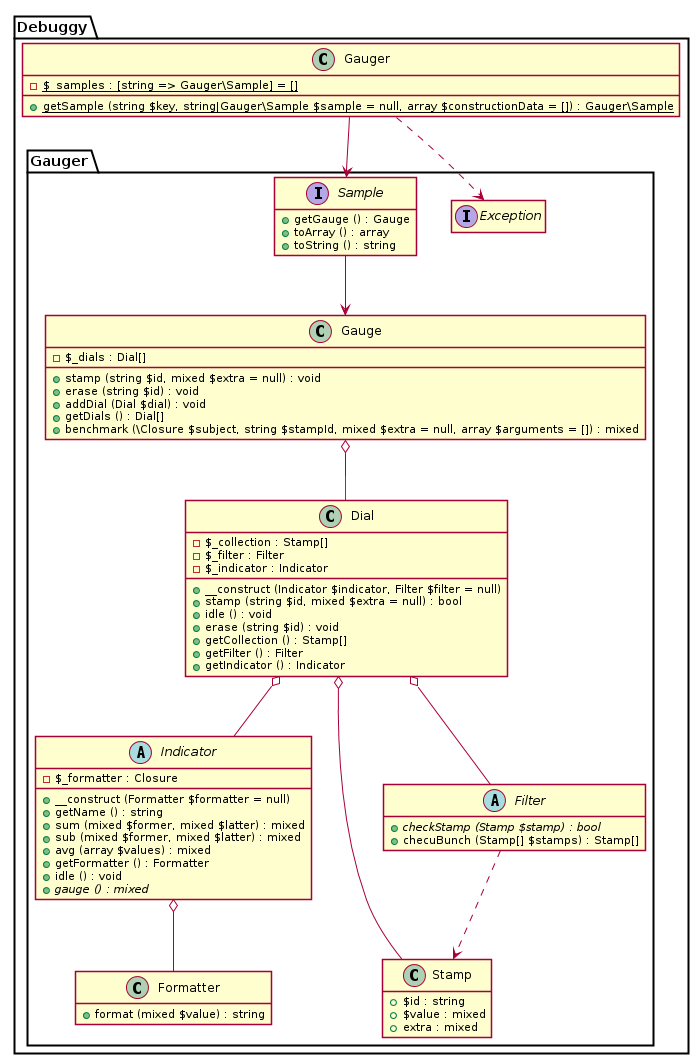
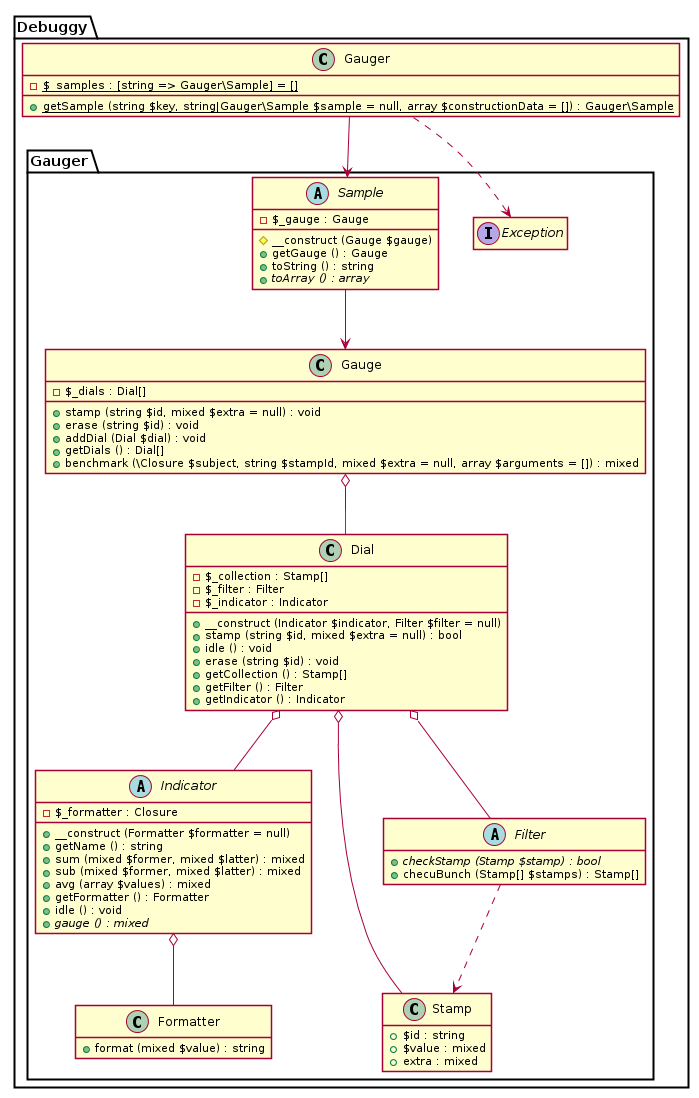
Fix UML (samples); Add Presenter::Txt afterline PHP_EOL

diff --git a/tests/Presenters.php b/tests/Presenters.php
@@ -33,7 +33,7 @@ class Presenters extends PHPUnit_Framework_TestCase {
 				array ('ttl' => array (array ('mark', 'value'))),
 				'********* ttl **********' . PHP_EOL .
 				'* mark ......... value *' . PHP_EOL .
-				'************************' . PHP_EOL
+				'************************' . PHP_EOL . PHP_EOL
 			),
 
 
@@ -44,7 +44,7 @@ class Presenters extends PHPUnit_Framework_TestCase {
 				'* plain text much      *' . PHP_EOL .
 				'* longer than twenty   *' . PHP_EOL .
 				'* four symbols         *' . PHP_EOL .
-				'************************' . PHP_EOL
+				'************************' . PHP_EOL . PHP_EOL
 			),
 
 
@@ -60,7 +60,7 @@ class Presenters extends PHPUnit_Framework_TestCase {
 				array ('ttl' => array (array ('mark', array ('sub' => 'val')))),
 				'********* ttl **********' . PHP_EOL .
 				'* mark ...... sub: val *' . PHP_EOL .
-				'************************' . PHP_EOL
+				'************************' . PHP_EOL . PHP_EOL
 			),
 
 
@@ -73,7 +73,7 @@ class Presenters extends PHPUnit_Framework_TestCase {
 				'*                sub2:         *' . PHP_EOL .
 				'*                 key: value   *' . PHP_EOL .
 				'*                 key2: value2 *' . PHP_EOL .
-				'********************************' . PHP_EOL
+				'********************************' . PHP_EOL . PHP_EOL
 			),
 
 
@@ -92,7 +92,7 @@ class Presenters extends PHPUnit_Framework_TestCase {
 				'******* Long *******' . PHP_EOL .
 				'****** title *******' . PHP_EOL .
 				'* key ........ val *' . PHP_EOL .
-				'********************' . PHP_EOL
+				'********************' . PHP_EOL . PHP_EOL
 			),
 
 
@@ -102,7 +102,7 @@ class Presenters extends PHPUnit_Framework_TestCase {
 				'******* Long *******' . PHP_EOL .
 				'****** title *******' . PHP_EOL .
 				'* key ........ val *' . PHP_EOL .
-				'********************' . PHP_EOL
+				'********************' . PHP_EOL . PHP_EOL
 			),
 
 
@@ -114,7 +114,7 @@ class Presenters extends PHPUnit_Framework_TestCase {
 				'*  long                        *' . PHP_EOL .
 				'*  key                         *' . PHP_EOL .
 				'*  string .............. value *' . PHP_EOL .
-				'********************************' . PHP_EOL
+				'********************************' . PHP_EOL . PHP_EOL
 			)
 
 		);

diff --git a/src/Debuggy/Gauger/Presenter/Txt.php b/src/Debuggy/Gauger/Presenter/Txt.php
@@ -62,7 +62,7 @@ class Txt implements Presenter {
 		$result = implode ('', $result);
 
 		if ($depth === 0)
-			$result .= $this->_title ('', $this->_border, $this->_outputWidth) . PHP_EOL;
+			$result .= $this->_title ('', $this->_border, $this->_outputWidth) . PHP_EOL . PHP_EOL;
 
 		return $result;
 	}
